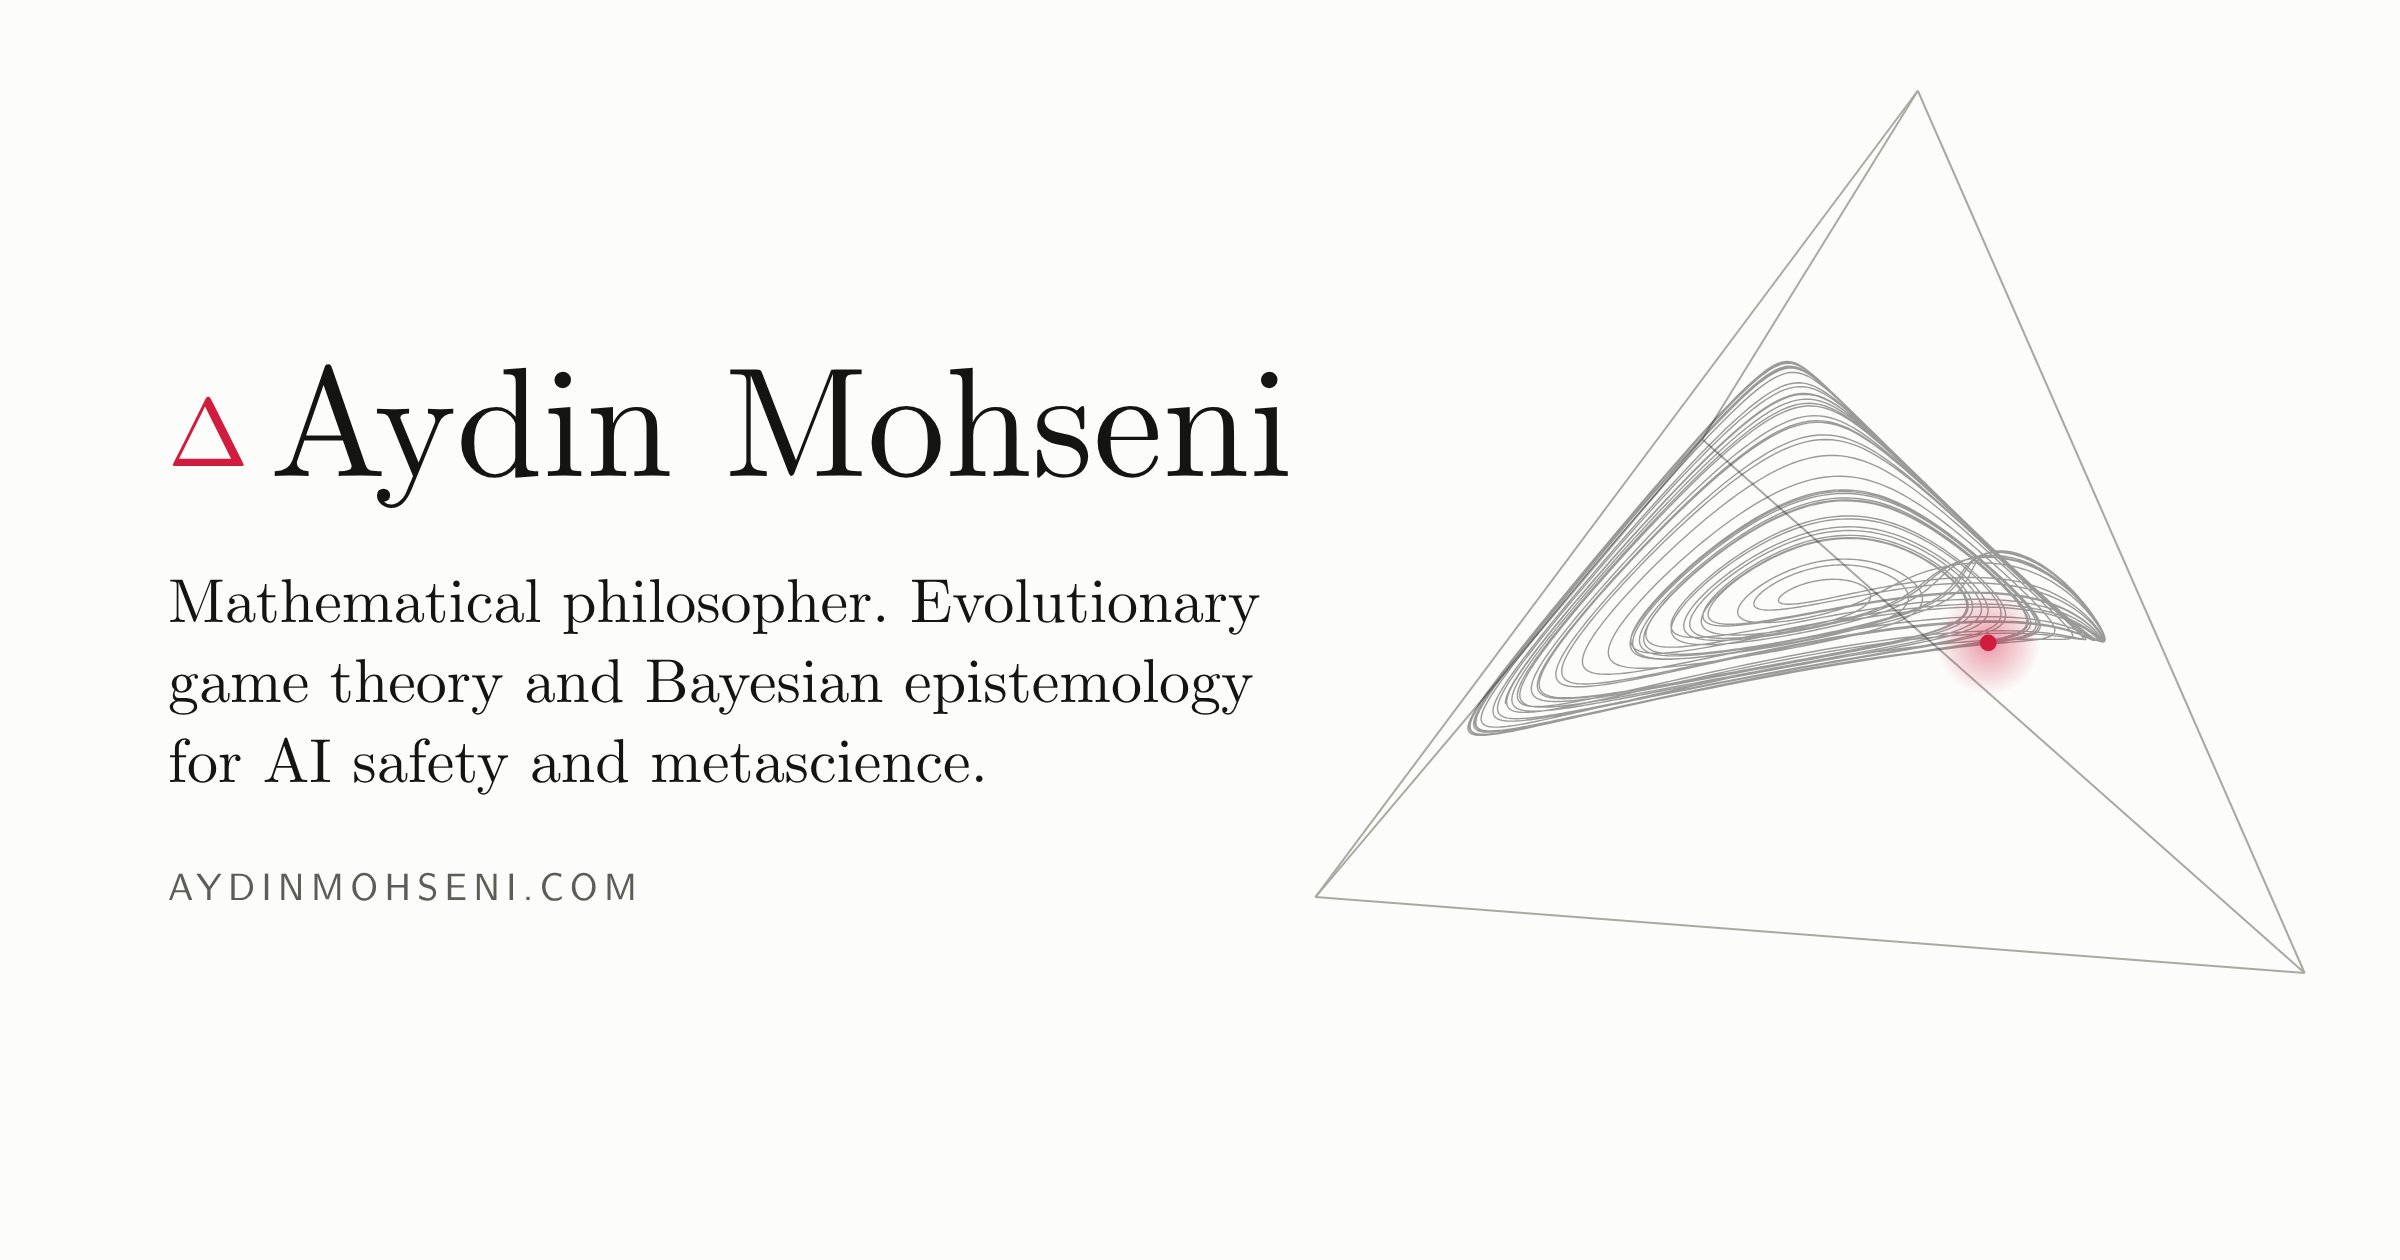
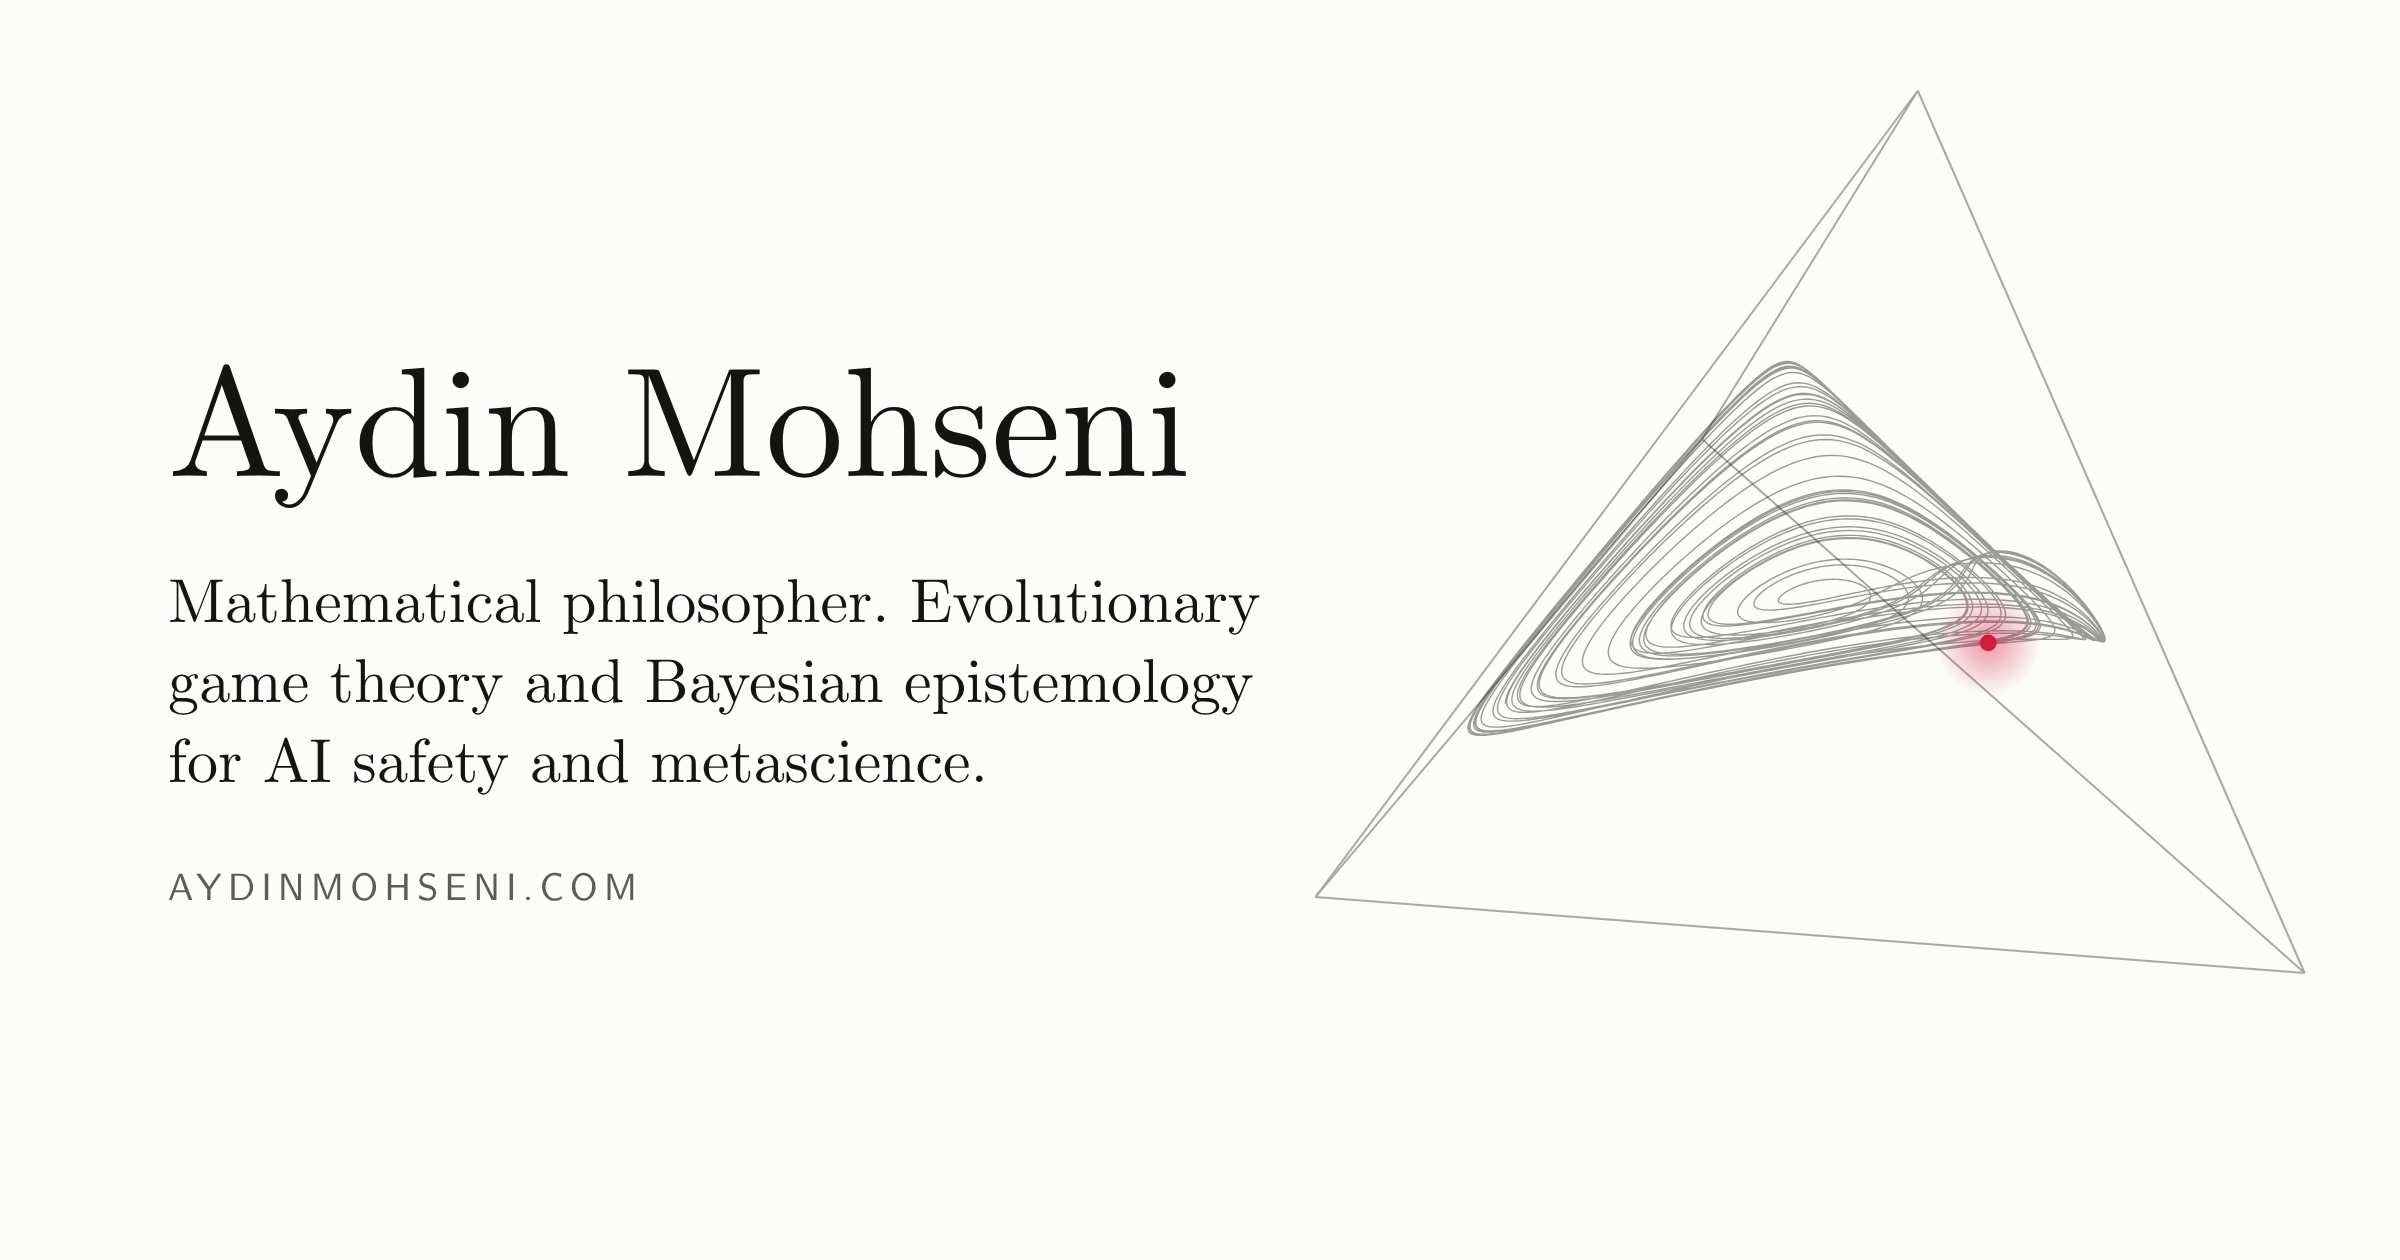
Red links throughout; red ∃ wherever ∃xProof AI appears; no delta mark in header, footer or link card
Claude-Session: https://claude.ai/code/session_012UBaboTpoEiVq1BRz3NivG

Changed region(s): [[0.0625, 0.2786, 0.5312, 0.4024]]

diff --git a/src/assets/css/site.css b/src/assets/css/site.css
@@ -104,8 +104,8 @@ body::after {
   padding-block: 0 4rem;
 }
 
-a { color: inherit; text-decoration: none; transition: color 120ms ease; }
-a:hover { color: var(--red-bright); }
+a { color: var(--red-bright); text-decoration: none; transition: color 120ms ease; }
+a:hover { color: var(--fg); }
 a:focus-visible, button:focus-visible, summary:focus-visible, label:focus-visible, input:focus-visible, select:focus-visible, [tabindex]:focus-visible { outline: 2px solid var(--red-bright); outline-offset: 2px; }
 ::selection { background: var(--red); color: var(--sel-fg); }
 img { height: auto; }
@@ -125,7 +125,7 @@ main:focus { outline: none; }   /* focused only as the skip link's target */
   -webkit-backdrop-filter: blur(6px); backdrop-filter: blur(6px);
   border-bottom: 1px solid color-mix(in srgb, var(--rule-strong) 50%, transparent);  /* --rule-strong at half strength */
 }
-/* Wordmark: a red delta (the simplex) and the name in CMU Serif. On hover the whole wordmark turns red. */
+/* Wordmark: the name in CMU Serif. On hover it turns red. */
 /* The masthead's translucent ground would hide the grain; it carries its own copy, fixed to the
    viewport so the two layers line up. */
 .masthead::before {
@@ -141,7 +141,7 @@ main:focus { outline: none; }   /* focused only as the skip link's target */
 .nav a { color: var(--fg-2); padding-block: 0.15rem; }
 .nav a:hover { color: var(--fg); }
 .nav a[aria-current="page"] { color: var(--fg); box-shadow: inset 0 -1px 0 var(--red); }
-.nav .exists, .foot .exists, a.xp .exists, .bio .exists { font-family: var(--math); font-size: 1.04em; line-height: 1; color: var(--red-bright); margin-right: 0.02em; }
+.exists { font-family: var(--math); font-size: 1.04em; line-height: 1; color: var(--red-bright); margin-right: 0.02em; }
 .theme-toggle {
   font: inherit; letter-spacing: inherit; color: var(--fg-2); background: none; border: 0; cursor: pointer;
   padding: 0.15rem 0; margin: 0;
@@ -166,7 +166,6 @@ main:focus { outline: none; }   /* focused only as the skip link's target */
 
 /* The Erdős path on About: its own centered line in the sans face. */
 .erdos-path { text-align: center; font-family: var(--sans); font-size: 0.95rem; letter-spacing: 0.02em; color: var(--fg); }
-.erdos-path a { color: inherit; }
 
 /* ---------- The ∃xProof AI peek ----------
    Hovering or focusing the ∃xProof AI link opens a small card that runs a miniature of the
@@ -199,8 +198,6 @@ main:focus { outline: none; }   /* focused only as the skip link's target */
 }
 .hero h1 em { font-style: italic; color: var(--red-bright); }
 .hero > :not(.eyebrow) { grid-column: 2; }
-.hero .lede a { color: var(--red-bright); }
-.hero .lede a:hover { color: var(--fg); }
 .hero .lede { max-width: var(--measure); margin: 1.8rem 0 0; color: var(--fg-2); font-size: 1.18rem; }
 .hero .who { margin: 1.8rem 0 0; font-family: var(--sans); font-size: 0.78rem; color: var(--fg-2); line-height: 1.7; }
 .hero .who b { color: var(--fg); font-weight: 500; }
@@ -332,14 +329,14 @@ blockquote footer, .attribution { font-family: var(--sans); font-size: 0.74rem; 
 .areas--4 { grid-template-columns: repeat(4, minmax(0, 1fr)); }
 .area { min-width: 0; }
 .area h3 { font-style: normal; font-size: 1.25rem; margin: 0 0 0.45rem; }
-.area h3 a:hover { color: var(--red-bright); }
+.area h3 a:hover { color: var(--fg); }
 .area p { font-size: 1rem; line-height: 1.38; color: var(--fg-2); margin: 0; }
 
 .featured { list-style: none; padding: 0; margin: 0; max-width: none; }
 .featured li { padding-block: 1rem; }
 .featured li:first-child { padding-top: 0; }
 .featured .t { font-size: 1.22rem; line-height: 1.3; display: block; margin-bottom: 0.2rem; }
-.featured .t a:hover { color: var(--red-bright); }
+.featured .t a:hover { color: var(--fg); }
 .featured .d { color: var(--fg-2); font-size: 1rem; display: block; }
 
 /* Cards: models and similar items with a thumbnail. */
@@ -530,11 +527,9 @@ pre.code { padding-right: 0.9rem; font-size: 0.8rem; }
 /* ---------- Footer ---------- */
 .foot { display: grid; grid-template-columns: var(--rail) minmax(0, 1fr); column-gap: var(--gap); padding-block: 2rem 0; font-family: var(--sans); font-size: 0.72rem; color: var(--fg-2); line-height: 1.7; }
 .foot nav { grid-column: 2; display: flex; flex-wrap: wrap; gap: 0.3rem 1.4rem; margin-bottom: 0.8rem; }
-.foot nav a { color: var(--fg); }
-.foot nav a:hover, .foot p a:hover { color: var(--red-bright); }
+.foot nav a:hover, .foot p a:hover { color: var(--fg); }
 .foot p { margin: 0; max-width: 42rem; grid-column: 2; }
 .foot .contact-line { display: flex; flex-wrap: wrap; gap: 0.3rem 1.4rem; margin-bottom: 0.4rem; }
-.foot .contact-line a { color: var(--fg); }
 .foot .brand-mark { grid-column: 1; grid-row: 1; align-self: start; }
 
 /* ---------- Review mode (#review) ---------- */
@@ -619,12 +614,11 @@ html.review .review-bar {
 .body > .featured + .related { margin-top: 1.6rem; }
 .related .exists, .profiles .exists, .contact-links .exists { font-family: var(--math); }
 .featured .tag { font-family: var(--sans); font-size: 0.64rem; letter-spacing: 0.1em; text-transform: uppercase; color: var(--fg); margin-right: 0.35rem; }
-.featured .d a:hover { color: var(--red-bright); }
+.featured .d a:hover { color: var(--fg); }
 .stories .yr { color: var(--fg-2); font-size: 0.95rem; }
 .courses .d { font-family: var(--sans); font-size: 0.76rem; letter-spacing: 0.02em; margin-top: 0.15rem; }
 .courses li { padding-block: 0.6rem; }
-.names .d a { color: inherit; }
-.names .d a:hover { color: var(--red-bright); }
+.names .d a:hover { color: var(--fg); }
 .contact-links, .profiles { font-size: 0.8rem; }
 
 /* Verse: one line per span, wrapped lines hang. */
@@ -647,7 +641,7 @@ blockquote.epigraph p { font-size: 1.24rem; line-height: 1.45; font-style: itali
 .occasions .vid { font-family: var(--sans); font-size: 0.72rem; letter-spacing: 0.04em; color: var(--fg); margin-left: 0.4rem; }
 .occasions .vid:hover { color: var(--red-bright); }
 .works--upcoming { margin-bottom: 0.4rem; }
-.work .work-title a:hover { color: var(--red-bright); }
+.work .work-title a:hover { color: var(--fg); }
 
 /* Models: thumbnails are app screenshots on white, shown whole. */
 .card-thumb { object-fit: contain; background: #fff; padding: 0.4rem; }
@@ -662,7 +656,7 @@ blockquote.epigraph p { font-size: 1.24rem; line-height: 1.45; font-style: itali
   :root:not([data-theme="light"]) :is(.card-thumb, .gallery img) { filter: brightness(0.8) contrast(1.05); transition: filter 160ms ease; }
   :root:not([data-theme="light"]) :is(.card:hover, .card:focus-within, .gallery li:hover, .gallery li:focus-within) :is(.card-thumb, img) { filter: none; }
 }
-.card h3 a:hover { color: var(--red-bright); }
+.card h3 a:hover { color: var(--fg); }
 
 /* Sketchbook galleries: the panels of one infographic in a row of equal height. Each item's
    flex-grow is its image's aspect ratio (--ar, width / height, set from the file at build time),

diff --git a/tools/og-card/card.html b/tools/og-card/card.html
@@ -19,7 +19,7 @@ canvas { position: absolute; inset: 0; }
 <body>
 <canvas id="c" width="2400" height="1260" style="width:1200px;height:630px"></canvas>
 <div class="words">
-  <p class="name"><span class="delta">&Delta;</span>Aydin Mohseni</p>
+  <p class="name">Aydin Mohseni</p>
   <p class="line">Mathematical philosopher. Evolutionary game theory and Bayesian epistemology for AI safety and metascience.</p>
   <div class="url">aydinmohseni.com</div>
 </div>
